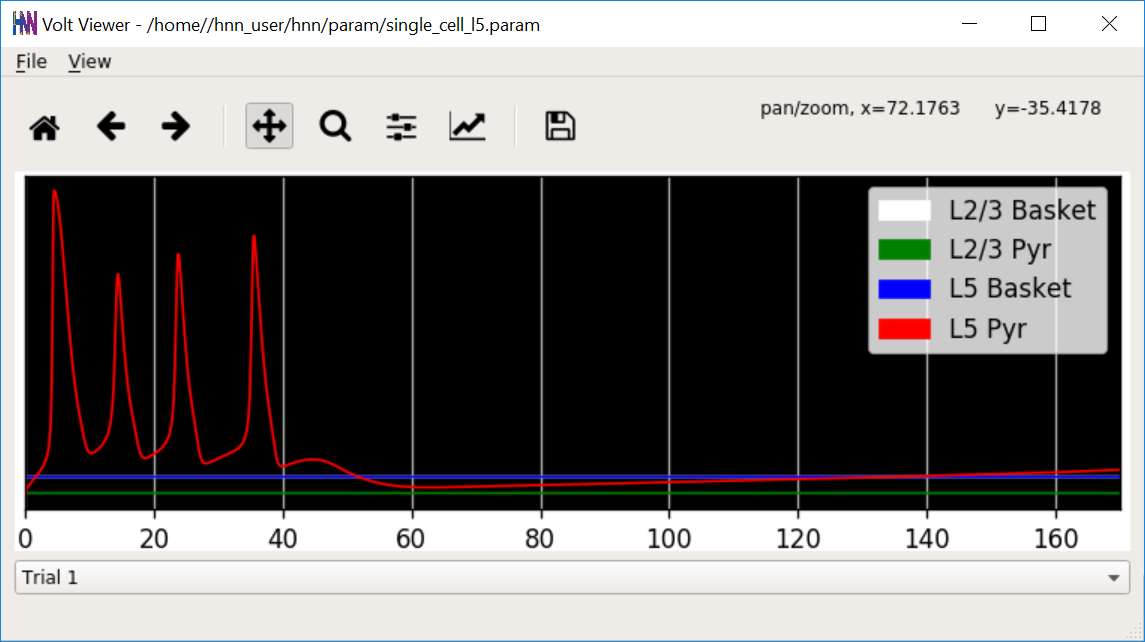
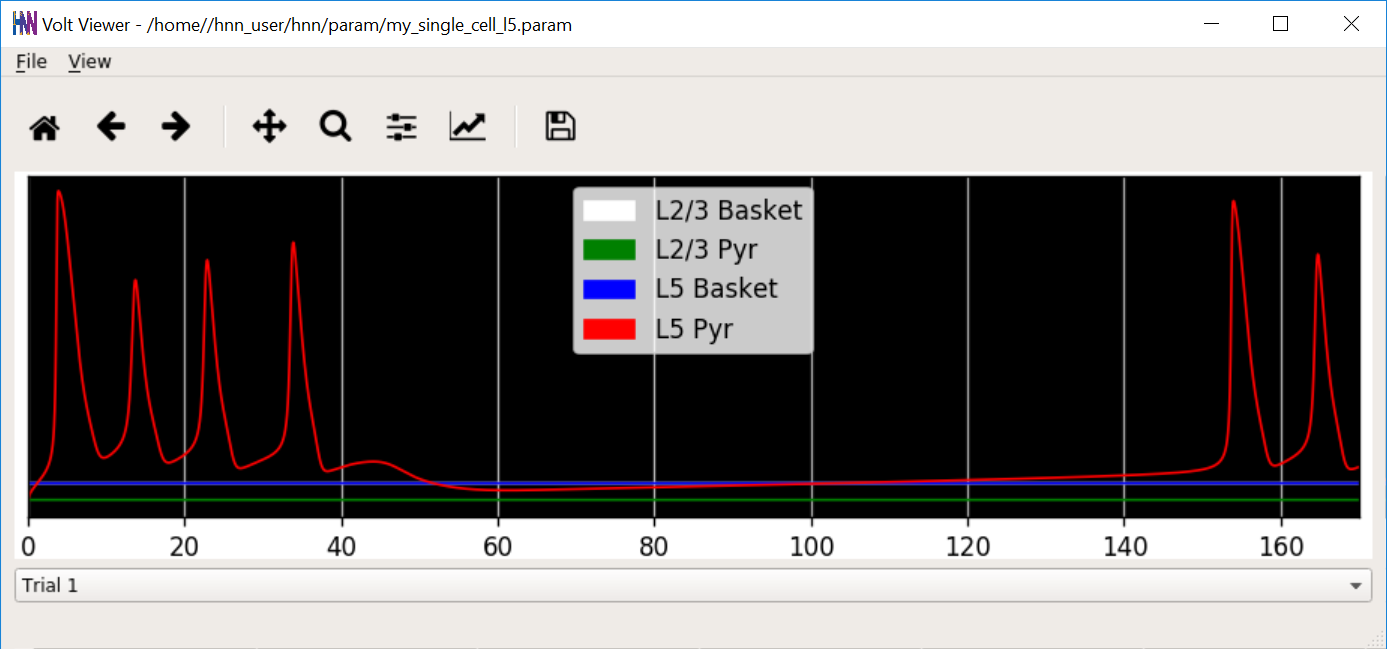
Updating single-cell tutorial and adding param

diff --git a/assets/css/style.scss b/assets/css/style.scss
@@ -5433,13 +5433,13 @@ aside .widget a {
 }
 
 .page-header.header-small {
-  min-height: 300px;
+  min-height: 150px;
   position: relative;
   height: auto;
 }
 .page-header.header-small .container {
   padding-top: 180px;
-  padding-bottom: 110px;
+  padding-bottom: 90px;
 }
 .page-header.header-small .hestia-title,
 .page-header.header-small .title {

diff --git a/single-cell/single-cell.md b/single-cell/single-cell.md
@@ -1,8 +1,8 @@
 # Single Cell Neural Dynamics
 
-While HNN includes many features necessary for modeling a network within the human neocortical cortex, it can also be used to examine single cell dynamics using a detailed biophysical model based on Hodgkin-Huxley dynamics. This tutorial will examine the spiking behavior of layer 2/3 and layer 5 pyrimidal neurons in isolation with constant current clamp inputs.
+While HNN includes the necessary functionality for modeling detailed biophysical networks in the human neocortical cortex, it can also be used to examine single cell dynamics using the same detailed Hodgkin-Huxley biophysical model. This tutorial will examine the spiking behavior of layer 2/3 and layer 5 pyramidal neurons in isolation with constant current clamp inputs.
 
-Note that before running/loading new simulations, we first remove the prior simulation(s) by pressing the "Remove Simulation" button at the bottom of the GUI. If we do not do this, both simulation dipoles are displayed (old simulation with dotted line, new simulation with solid line; see "Tour of the GUI" for more details on simulation control).
+Note that before running/loading new simulations, we first remove the prior simulation(s) by pressing the `Remove Simulation` button at the bottom of the GUI. If we do not do this, both simulation dipoles are displayed (old simulation with the dotted line, new simulation with solid line; see "Tour of the GUI" for more details on simulation control).
 
 ## Getting Started
 
@@ -10,52 +10,59 @@ Note that before running/loading new simulations, we first remove the prior simu
 
 
 
-## 1. Layer 2/3 Dynamics
+## 1. Layer 2/3 Pyramidal Cell Dynamics
 
 **TODO** Ethan's homework here.
 
 
-## 2. Layer 5 Dynamics
+## 2. Layer 5 Pyramidal Cell Dynamics
 
 ### 2.1. Load/view parameters to define the network structure & to "activate" the network. 
 
-For the exercise below, we will use the parameter file `single_cell_L5.param`, which can be obtained by clicking [here](https://raw.githubusercontent.com/blakecaldwell/hnn/single_cell/param/single_cell_L5.param). After downloading the file, copy it to a location that can be accessed by the HNN GUI. For docker-based installs, this is the `hnn/param` directory located where you ran the docker-compose command. For example, `hnn/installer/mac/hnn/param`.
+For the exercise below, we will use the parameter file `single_cell_L5.param`, which can be obtained by clicking [here](https://jonescompneurolab.github.io/hnn-tutorials/single-cell/single_cell_L5.param). After downloading the file, copy it to a location that can be accessed by the HNN GUI. For Docker-based installs, this is the `hnn/param` directory located where you ran the docker-compose command. For example, `~/hnn/installer/mac/hnn/param`.
 
 To load the initial parameter set, navigate to the HNN GUI and click:
 
 `Set Parameters From File`
 
-Then select the file [single_cell_L5.param](https://raw.githubusercontent.com/blakecaldwell/hnn/single_cell/param/single_cell_L5.param) from the `hnn/param` folder where the file was copied to above.
+Then select the file [single_cell_L5.param](https://jonescompneurolab.github.io/hnn-tutorials/single-cell/single_cell_L5.param) from the `hnn/param` folder where the file was copied to above.
 
-This will load a configuration of isolated cells without any network connections between them. The dimensions of the pyrimidal so network is one by one, and can be verified in the GUI by clicking
-
-`Set Parameters -> Network`
+This will load a configuration of isolated cells without any network connections between them. The dimensions of the pyramidal so the network is 1x1, and can be verified in the GUI by navigating to `Set Parameters -> Network`.
 
 <img src="images/1x1.png" width="400" />
 
-If you go through the other tabs in the `Network` menu, you can notice that the weights for each connection are set to 0. Even though more than one cell exists in the model, there are no synaptic connections between them.
+This can be visualized in the `Model Visualization` button, producing a diagram similar to below, where the green cell represents an L2/L3 pyramidal cell, red represents an L5 pyramidal cell, white is the L2/L3 inhibitory basket cell, and blue is the L5 basket cell. 
 
-We will set a constant current input supplied only to the Layer 5 cells to observe properties of the model that define their intrinsic excitability in the absence of network inputs. From the `Set Parameters` window, click on the `Tonic Inputs` button.
+<img src="images/1x1_network.png" width="400" />
+
+If you go through the other tabs in the `Network` menu, you can notice that the weights for each connection are set to 0. Even though the 4 cells mentioned above exist in the model, there are no synaptic connections between them.
+
+We will set a constant current input supplied only to the Layer 5 excitatory pyramidal cell to observe properties of the model that define its intrinsic excitability in the absence of network inputs. To view the default injected current go to the `Set Parameters` window and click on the `Tonic Inputs` button.
 
 Click on the `Layer 5` tab and notice that the amplitude is set to 1 nA. The stop time is set to -1.0 ms, meaning that the injected current will be active for the entire simulation.
 
+Next, change the name of the simulation to `my_single_cell_l5` in the `Set Parameters` window. This will create a new parameter file and preserve the defaults in the downloaded parameter file.
+
 ### 2.2 Run the simulation and visualize somatic voltages
 
-With the current input set for a 1x1 network, run a simulation by clicking on the `Run Simulation` button. A dialog box will pop up asking you to confirm overwriting the existing file. Go ahead and press `OK` to start the simulation. A dialogue that the simulation has completed should appear quickly after the model simulates 170 ms. To see the generated voltage plots over time, click on the `View` pull down menu and select `View Somatic Voltage`.
+With the current input set for a 1x1 network, run a simulation by clicking on the `Run Simulation` button. A dialog box will pop up asking you to confirm overwriting the existing file. Go ahead and press `OK` to start the simulation. A dialogue that the simulation has completed should appear quickly after the model simulates 170 ms. To see the generated voltage plots over time, click on the `View` pull-down menu and select `View Somatic Voltage`.
 
 <img src="images/l5_bursting.png" width="400" />
 
-Note how there's a single burst of spikes in the 170 ms simulation. Observe what happens if you change the current amplitude to 1.2 nA. Now find the minimum amplitude that will still trigger an action potential. How many spikes are in a single burst now?
+Note how there's a burst of four spikes, a pause, and then another burst. Observe what happens if you change the current amplitude to 1.0 nA. Now find the minimum amplitude that will still trigger an action potential. How many spikes are in a single burst now?
 
 ### 2.3 Change cell biophysical parameters to modify spiking behavior
 
-Since modulating current is not enough to significantly change the number of spikes per burst, we will look at other cellular parameters that have an influence on spiking behavior.
+Since modulating current is not enough to cause one spike per burst, we will look at other cellular parameters that have an influence on spiking behavior.
 
 Leave the current amplitude at a minimum value for generating an action potential and click on `Set Parameters -> Cell` Go to the `L5 Pyr Biophysics` tab and find the parameter `Soma Kv channel density`. Which way would you adjust this to increase the neuron’s capacity for re-polarizing after an action potential?
 
-By adjusting `Soma Kv channel density`, you should obtain a somatic voltage plots similar to below.
+By adjusting `Soma Kv channel density`, you should obtain a somatic voltage plot similar to below.
 
-To alter spiking behavior even further, and only generate one spike, we need to modify biophysical parameters of the cell dendrites, like we did with the soma above. Click on `Set Parameters -> Cell` and go to the `L5 Pyr Biophysics` tab. Look for `Dendrite Kv channel density` and modify it. However, it is very easy to create a cell that hyper-polarizes, and prevents more than one action potential within 170 ms. At most, double the dendritic channel density.
+<img src="images/l5_single_spikes.png" width="400" />
+
+
+To alter spiking behavior even further, and only generate one spike, we need to modify biophysical parameters of the cell dendrites, like we did with the soma above. Click on `Set Parameters -> Cell` and go to the `L5 Pyr Biophysics` tab. Look for `Dendrite Kv channel density` and modify it. It is very easy to create a cell that hyper-polarizes, and prevents more than one action potential within 170 ms. At most, double the dendritic channel density.
 
 You may find that the increased potassium channel density prevents somatic voltage from reaching the action potential threshold. Increase the input current to compensate as necessary. You should end up with a voltage trace showing multiple single spike bursts over the 170 ms duration.
 
